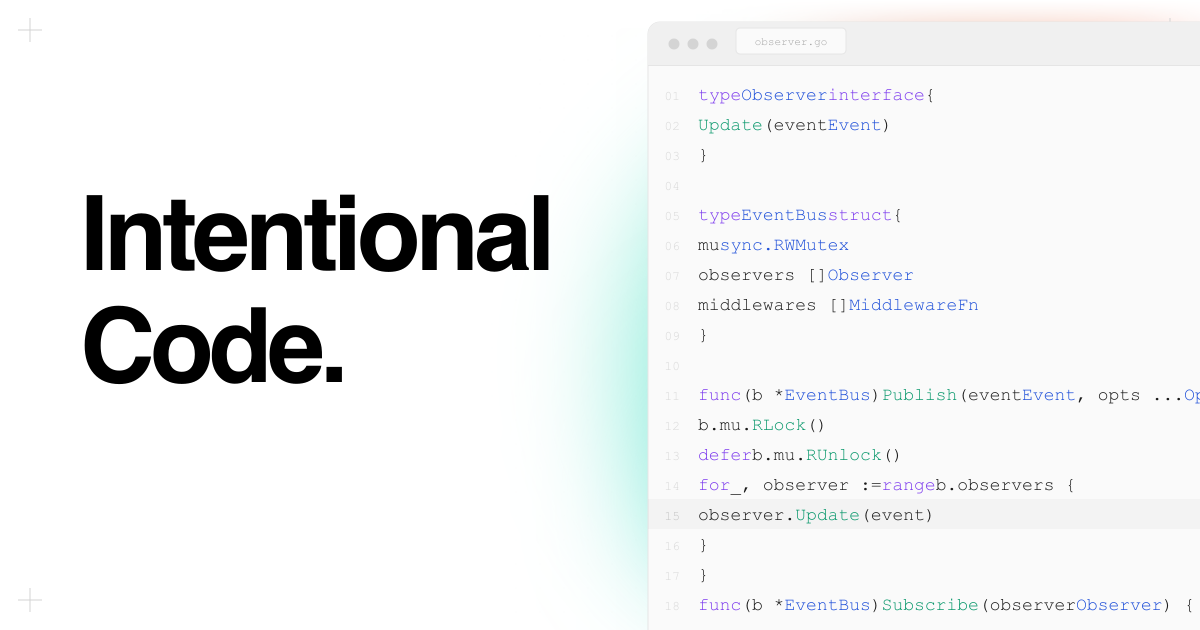
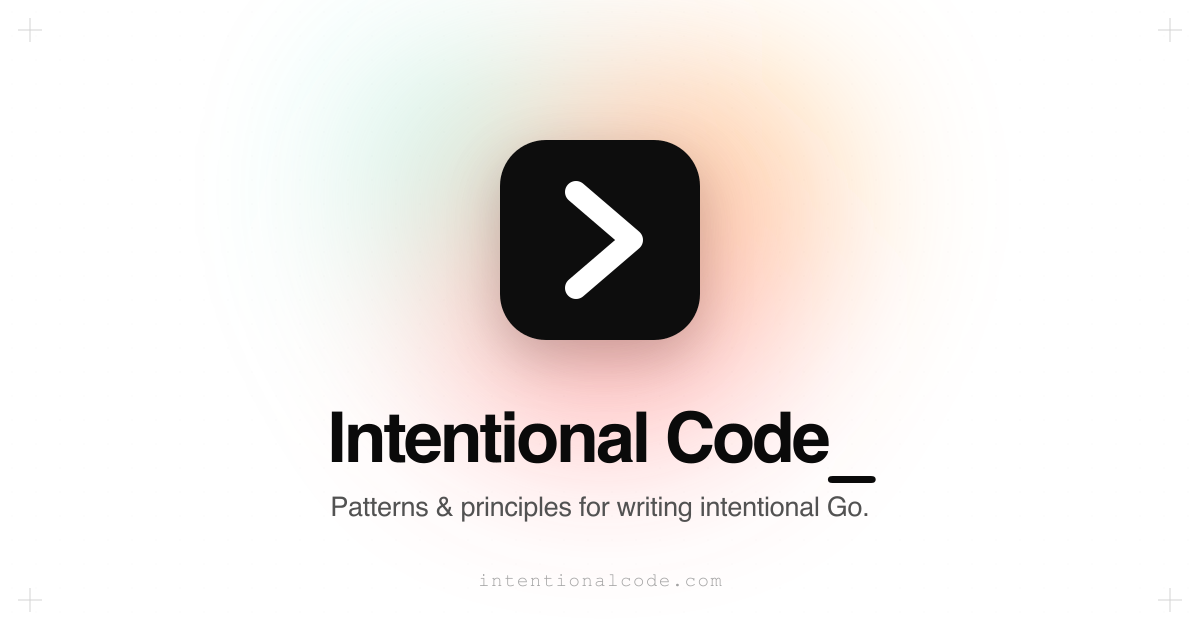
feat: update OG image assets and generation script
- Updated the `og-image.svg` with new design elements including a brand-color halo and tagline.
- Modified the `generate-og.mjs` script to allow for dynamic naming of generated PNG files.
- Enhanced the TopBar component to include a favicon alongside the site title for improved branding.

diff --git a/src/components/layout/TopBar.jsx b/src/components/layout/TopBar.jsx
@@ -48,9 +48,11 @@ export default function TopBar({
             >
               <Menu className="h-5 w-5" />
             </button>
-            <a href={homePath} className="flex items-center shrink-0 select-none gap-1">
-              <span className="font-bold text-sm tracking-tight text-foreground">Intentional Code</span>
-              <span className="text-primary font-bold text-sm">_</span>
+            <a href={homePath} className="flex items-center shrink-0 select-none gap-2">
+              <img src="/favicon-32x32.png" alt="" className="h-5 w-5 rounded-sm" />
+              <span className="flex items-center gap-1">
+                <span className="font-bold text-sm tracking-tight text-foreground">Intentional Code</span>
+              </span>
             </a>
           </div>
 